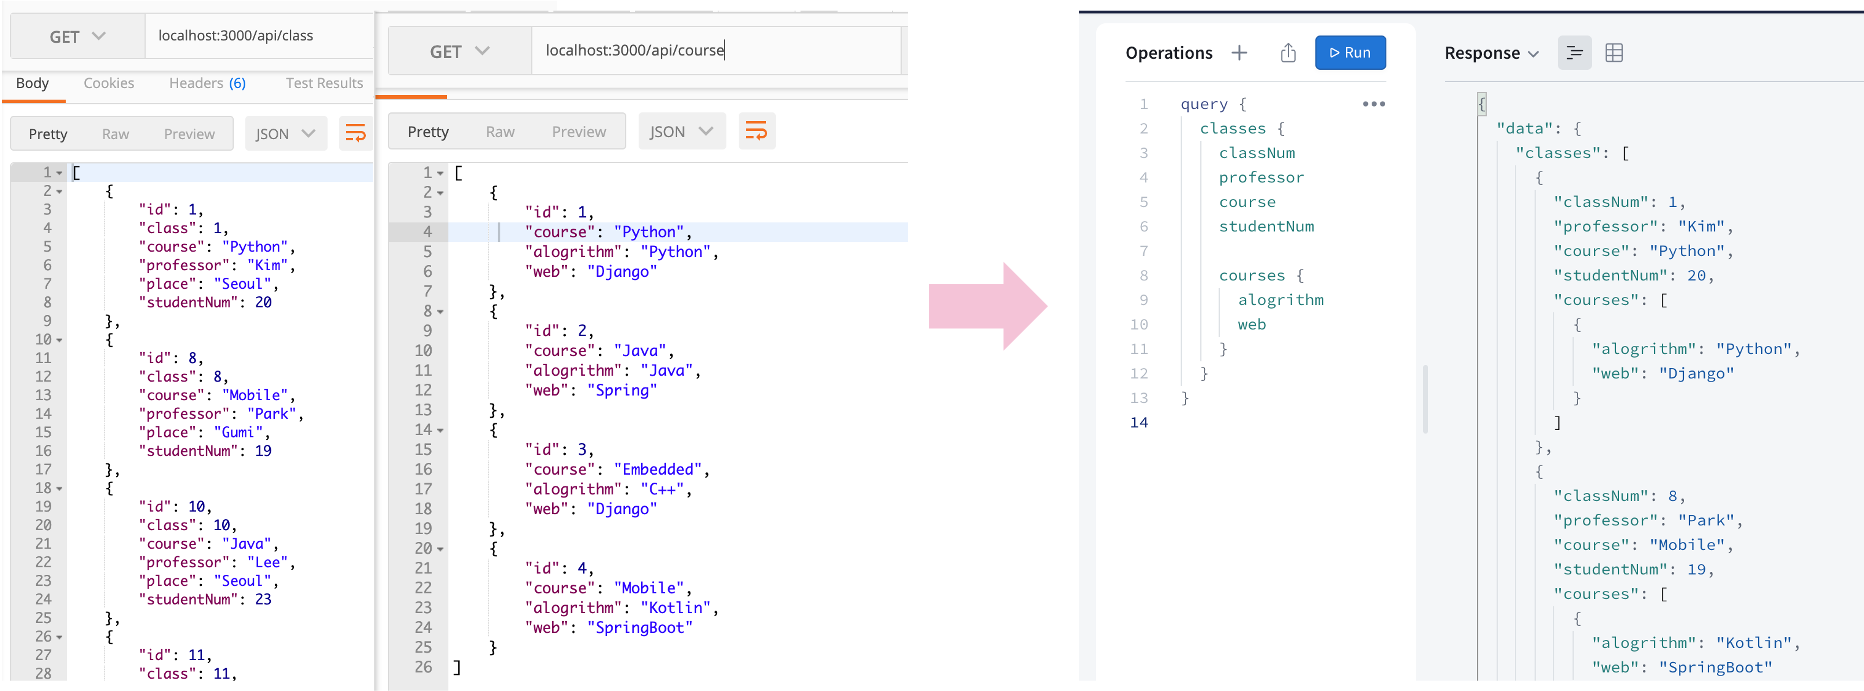
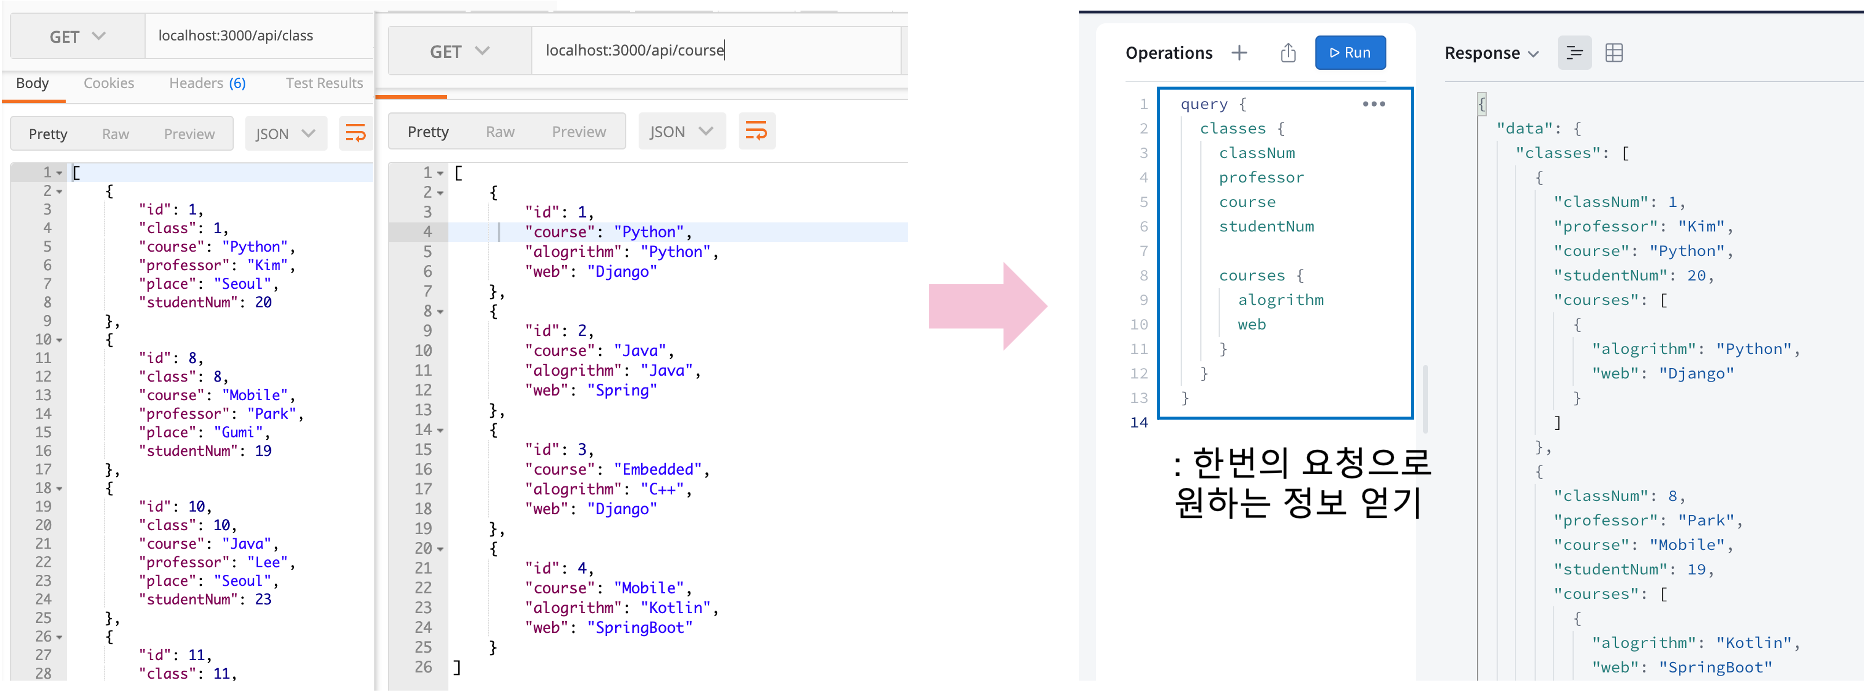
Revise : GraphQL.md 이미지 수정

Changed region(s): [[0.6223, 0.6382, 0.7779, 0.7598], [0.6223, 0.5774, 0.7779, 0.6078], [0.6223, 0.1216, 0.7779, 0.152]]

diff --git a/Front-end/GraphQL.md b/Front-end/GraphQL.md
@@ -20,7 +20,7 @@
 
 - 페이스북이 만든 `Query Language`
 - GraphQL을 통해 클라이언트는 필요한 것을 정확하게 요청 가능
-- 한번의 요청으로 앱에 필요한 모든 데이터를 가져올 수 있다
+- 한 번의 요청으로 앱에 필요한 모든 데이터를 가져올 수 있다
 - 프론트엔드 단에서는 요청을 전송하고, 백엔드에서는 정보 제공 및 처리
 - [GQL(Graph Query Language)](https://en.wikipedia.org/wiki/Graph_Query_Language)와 다르니 주의
 
@@ -61,7 +61,7 @@
 
 - Overfetching 해결 예시
   > <img src="../images/graphql_overfetch_sol.png" alt="graphql_overfetch_sol" width="900" /><br />
-  > 1번 학생의 이름과 반번호만 알고 싶은 경우,  
+  > 1번 학생의 이름과 반 번호만 알고 싶은 경우,  
   > REST는 불필요한 정보까지 가져오지만, GraphQL은 요청한 정보만 가져온다
 - Underfetching 해결 예시
   > <img src="../images/graphql_underfetch_sol.png" alt="graphql_underfetch_sol" width="900" /><br />
@@ -72,7 +72,7 @@
 
 - GraphQL이 REST를 완전히 대체하지는 않는다
 - 더 작은 서비스인 경우, 또는 자주 요청되는 URL을 아는 경우 REST가 나을 것
-- 서비스가 어떤 종류의 데이터를 어떻게 주고받느냐에 따라 REST와 GraphQL 중 하나를 선택
+- 서비스가 어떤 종류의 데이터를 어떻게 주고받느냐에 따라 GraphQL와 REST 중 하나를 선택
 
 <br />
 
@@ -86,14 +86,15 @@
 
   - `query`: 데이터를 읽는데(R) 사용
 
-    > <img src="../images/graphql_query1.png" alt="graphql_query1" width="700" /><br />
-    > 예시 1: id가 1인 학생의 이름, 반번호, 나이와 id가 4인 학생의 이름, 반번호를 요청<br /> 
+    > <img src="../images/graphql_query1.png" alt="graphql_query1" width="650" /><br />
+    > 예시 1: id가 1인 학생의 이름, 반 번호, 나이와 id가 4인 학생의 이름, 반 번호를 요청<br /> 
     
-    > <img src="../images/graphql_query2.png" alt="graphql_query2" width="700" /><br />
+    > <img src="../images/graphql_query2.png" alt="graphql_query2" width="650" /><br />
     > 예시 2: id가 30인 학생(newStudent)의 모든 정보를 요청
 
-  - `mutation`: 데이터를 바꾸는데(CUD) 사용. DB 등의 데이터를 변경
-    > <img src="../images/graphql_mutation.png" alt="graphql_mutation" width="700" /><br />
+  - `mutation`: 데이터를 바꾸는데(CUD) 사용. 데이터 변경
+    
+    > <img src="../images/graphql_mutation.png" alt="graphql_mutation" width="650" /><br />
     > 예시: id는 30, 이름은 Han, 3반, 여성, 24살의 새로운 학생을 추가
 
 - Scalar types
